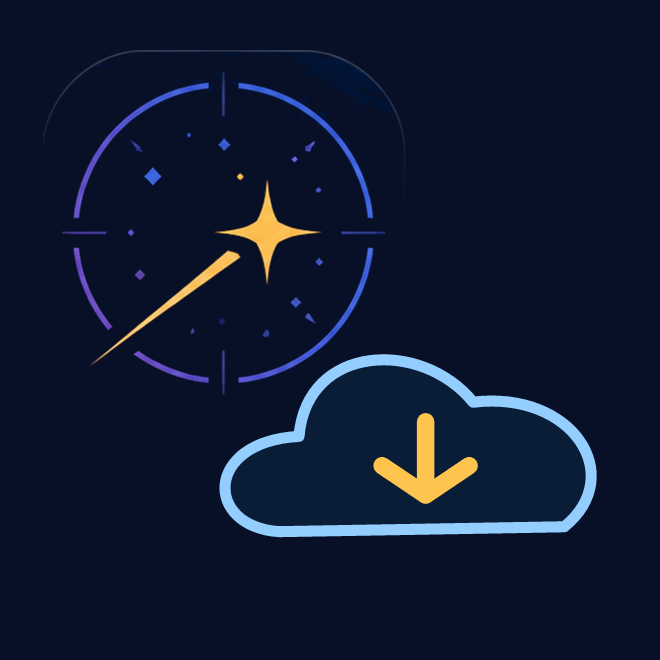
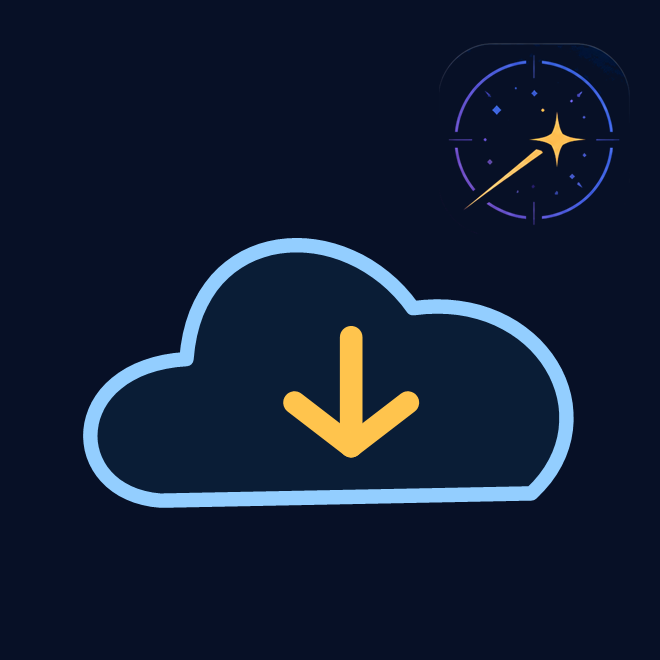
Polish Znichka UI and Drive guide

diff --git a/source/menu_options.c b/source/menu_options.c
@@ -55,6 +55,21 @@ static void google_help_line(int y, const char *line, int heading)
     SetFontColor((heading ? APP_FONT_TITLE_COLOR : APP_FONT_COLOR) | 0xFF, 0);
     DrawString(155, y, line);
 }
+static char google_button_symbol(int texture_index)
+{
+    if (texture_index == footer_ico_cross_png_index)
+        return orbisPadGetConf()->crossButtonOK ? CHAR_BTN_X : CHAR_BTN_O;
+    if (texture_index == footer_ico_circle_png_index)
+        return orbisPadGetConf()->crossButtonOK ? CHAR_BTN_O : CHAR_BTN_X;
+    if (texture_index == footer_ico_square_png_index) return CHAR_BTN_S;
+    return CHAR_BTN_T;
+}
+static void google_help_action(int y, const char *lead, int texture_index, const char *action)
+{
+    char line[160];
+    snprintf(line, sizeof(line), "%s %c %s", lead, google_button_symbol(texture_index), action);
+    google_help_line(y, line, 0);
+}
 static void google_draw_help(void)
 {
     DrawHeader(cat_opt_png_index, 0, "Google Drive: How to use", NULL,
@@ -65,25 +80,26 @@ static void google_draw_help(void)
         google_help_line(285, "1. Settings > Connect Google Drive. Follow the URL and code.", 0);
         google_help_line(360, "2. HDD Saves > select a save > Back up to Google Drive.", 0);
         google_help_line(435, "3. Open Google Drive on the main screen. Choose a backup.", 0);
-        google_help_line(510, "4. Confirm to download. Checksum, ZIP and SFO are validated.", 0);
-        google_help_line(585, "5. Save exists? Triangle: Replace. Do not delete it first.", 0);
-        google_help_line(690, "6. No save yet? Cross: restore into the empty slot.", 0);
+        google_help_action(510, "4.", footer_ico_cross_png_index, "Download; checksum, ZIP and SFO are checked.");
+        google_help_action(585, "5. Save exists?", footer_ico_triangle_png_index, "Replace. Do not delete it first.");
+        google_help_action(690, "6. Empty slot?", footer_ico_cross_png_index, "Restore the downloaded save.");
         google_help_line(765, "Backups stay in Drive; failed restores retain downloaded ZIPs.", 0);
     } else {
-        google_help_line(205, "ACCOUNTS AND REPLACE", 1);
-        google_help_line(275, "Both PS4 profiles need the same Apollo offline Account ID.", 0);
-        google_help_line(340, "Local user IDs may differ. Use this app: User Tools > Activate PS4 Accounts.", 0);
-        google_help_line(405, "No separate Apollo download or PSN sign-in is needed.", 0);
-        google_help_line(490, "Replace was tested successfully; restored progress loaded.", 0);
-        google_help_line(555, "Keep the console awake until the operation finishes.", 0);
-        google_help_line(620, "Keep a separate backup; Replace removes the target after rollback upload.", 0);
-        google_help_line(685, "Power loss can leave a missing or partial save; recovery is best effort.", 0);
-        google_help_line(770, "Account ID lookup failed? Activate offline, reboot, retry.", 0);
-        google_help_line(835, "Log: /data/ps4-save-sync/google_restore.log", 0);
+        google_help_line(205, "REPLACE AND RECOVERY", 1);
+        google_help_action(285, "", footer_ico_triangle_png_index, "Replace an existing save after downloading.");
+        google_help_line(360, "Keep a separate backup of the target save first.", 0);
+        google_help_line(435, "Replace uploads a verified rollback before removing the target.", 0);
+        google_help_line(510, "Keep the console awake until the operation finishes.", 0);
+        google_help_line(585, "Power loss can leave a missing or partial save.", 0);
+        google_help_line(660, "Recovery is best effort; keep the downloaded ZIP.", 0);
+        google_help_action(735, "", footer_ico_circle_png_index, "Discard a ready download or return to the menu.");
+        google_help_line(810, "Log: /data/ps4-save-sync/google_restore.log", 0);
     }
     SetFontSize(37, 43);
     SetFontColor(APP_FONT_COLOR | 0xFF, 0);
-    DrawString(155, 975, "L1 / R1: page       Square / Back: close");
+    DrawFormatString(155, 975, "L1 / R1: page       %c / %c close",
+        google_button_symbol(footer_ico_square_png_index),
+        google_button_symbol(footer_ico_circle_png_index));
 }
 void google_drive_ui_help(void)
 {
@@ -206,20 +222,20 @@ int google_drive_ui_frame(void)
         DrawFormatString(180,690,"Recovery pending: %s / %s, user %08x",
             pending_backup.title,pending_backup.directory,apollo_config.user_id);
         DrawString(180,750,"Target may be partial. Both ZIPs and journal are retained.");
-        DrawString(180,935,"R1: retry recovery    Back: close");
+        DrawFormatString(180,935,"R1: retry recovery    %c close",
+            google_button_symbol(footer_ico_circle_png_index));
     } else if (!status.busy && pending<0) {
         DrawString(180,750,"Replacement journal cannot be verified. Save operations blocked.");
     }
     if (!status.busy && pending==0 && status.restore_ready) {
         const google_backup *b=&status.restore_backup;
-        const int cross_ok=orbisPadGetConf()->crossButtonOK;
-        const char *restore_button=cross_ok?"Cross":"Circle";
-        const char *discard_button=cross_ok?"Circle":"Cross";
         DrawFormatString(180,670,"Game: %.*s",(int)google_text_prefix(b->game,65),b->game);
         DrawFormatString(180,720,"Title: %s  Save: %s",b->title,b->directory);
         DrawFormatString(180,770,"Backup UTC: %s  Current user: %08x",b->utc,apollo_config.user_id);
-        DrawFormatString(180,875,"%s: empty slot    Triangle: replace    %s: discard",
-            restore_button,discard_button);
+        DrawFormatString(180,875,"%c empty slot    %c replace    %c discard",
+            google_button_symbol(footer_ico_cross_png_index),
+            google_button_symbol(footer_ico_triangle_png_index),
+            google_button_symbol(footer_ico_circle_png_index));
     }
     if (!status.busy && status.browsing) {
         SetFontSize(34, 40);
@@ -236,7 +252,8 @@ int google_drive_ui_frame(void)
             DrawFormatString(180,820,"Save: %s",b->directory);
             DrawFormatString(180,865,"Backup: %s  Size: %llu bytes",b->utc,(unsigned long long)b->size);
         }
-        DrawString(180,920,"Up/Down: select    Confirm: download    R1: next page");
+        DrawFormatString(180,920,"Up/Down: select    %c download    R1: next page",
+            google_button_symbol(footer_ico_cross_png_index));
     }
     if (status.verification_url[0]) {
         DrawString(180, 480, "Verification URL:");
@@ -244,15 +261,15 @@ int google_drive_ui_frame(void)
         DrawString(180, 710, "User code (case sensitive):");
         google_text(status.user_code, 760, 860);
     }
-    const char *cancel_button = orbisPadGetConf()->crossButtonOK ? "Circle" : "Cross";
     if (status.mount_blocked)
         DrawString(180, 995, "Mount state uncertain. Stop save operations.");
     else if (status.busy && !status.cancellable)
         DrawString(180, 995, "Finishing operation...");
     else
-        DrawFormatString(180, 995, "%s: %s", cancel_button,
+        DrawFormatString(180, 995, "%c %s", google_button_symbol(footer_ico_circle_png_index),
             status.busy ? "cancel operation" : "return");
-    if (!status.busy) DrawString(1120, 995, "Square: How to use");
+    if (!status.busy) DrawFormatString(1120, 995, "%c How to use",
+        google_button_symbol(footer_ico_square_png_index));
     return 1;
 }
 

diff --git a/source/draw.c b/source/draw.c
@@ -373,8 +373,21 @@ static void drawMainCards(uint8_t alpha)
 	SetFontAlign(FONT_ALIGN_SCREEN_CENTER);
 	SetFontColor(APP_FONT_COLOR | alpha, 0);
 	SetFontSize(36, 40);
-	DrawString(0, 921, "Left / Right  Navigate       Confirm  Open       Back  Exit");
+	DrawString(0, 921, "Left / Right  Navigate       \x10 Open       \x13 Exit");
 	SetFontAlign(FONT_ALIGN_LEFT);
+}
+
+static void drawStartupIdentity(u8 alpha)
+{
+	DrawTexture(&menu_textures[znichka_icon_png_index], 144, 134, 0,
+		78, 78, 0xFFFFFF00 | alpha);
+	SetFontAlign(FONT_ALIGN_LEFT);
+	SetFontColor(APP_FONT_TITLE_COLOR | alpha, 0);
+	SetFontSize(72, 76);
+	DrawString(248, 132, "PS4 Cloud Save");
+	SetFontColor(0xE9EEF900 | alpha, 0);
+	SetFontSize(30, 36);
+	DrawString(252, 214, "by Znichka");
 }
 
 void drawSplashLogo(int mode)
@@ -404,7 +417,7 @@ void drawSplashLogo(int mode)
 			logo_a_t = 0xFF;
 		u8 logo_a = (u8)logo_a_t;
 
-		DrawTextureCentered(&menu_textures[znichka_logo_png_index], SCREEN_WIDTH/2, SCREEN_HEIGHT /2, 0, 1060, 328, 0xFFFFFF00 | logo_a);
+		drawStartupIdentity(logo_a);
 
 		//flush and flip
 		SDL_RenderPresent(renderer);
@@ -425,7 +438,7 @@ void drawEndLogo(void)
 		DrawBackground2D(0x070A12FF);
 
 		//App description
-		DrawTextureCentered(&menu_textures[znichka_logo_png_index], SCREEN_WIDTH/2, SCREEN_HEIGHT /2, 0, 1060, 328, 0xFFFFFF00 | 0xFF);
+		drawStartupIdentity(0xFF);
 
 		rect.y = 0;
 		SDL_SetRenderDrawColor(renderer, 0, 0, 0, 0xFF);

diff --git a/source/main.c b/source/main.c
@@ -348,6 +348,9 @@ static int LoadSounds(void* data)
 		}
 
 		ambient_audio_stereo(music, loop_samples, &cursor, pSampleData, AUDIO_SAMPLES);
+		/* Keep the same loop and toggle, with a slightly quieter output level. */
+		for (size_t i = 0; i < AUDIO_SAMPLES * 2; i++)
+			pSampleData[i] = (int16_t)((int32_t)pSampleData[i] * 85 / 100);
 
 		/* Output audio */
 		sceAudioOutOutput(audio, NULL);	// NULL: wait for completion

diff --git a/docs/google-drive.md b/docs/google-drive.md
@@ -12,37 +12,46 @@ credits and licenses remain in place.
 
 ## How to use in the current UI
 
-Open **Google Drive** from the main screen and press Square for the two-page
+Open **Google Drive** from the main screen and press **□** for the two-page
 **How to use** guide. It is also listed in Settings.
 
 1. In Settings, choose **Connect Google Drive** and complete the displayed
    verification URL and user code.
 2. In **HDD Saves**, select a save and choose **Back up to Google Drive**.
-3. Open **Google Drive**, select a backup, and Confirm to download it. The app
+3. Open **Google Drive**, select a backup, and press **×** to download it. The app
    checks its checksum, ZIP contents, and SFO before making it ready.
-4. Confirm again to restore into an **empty** save slot. An existing target is
+4. Press **×** again to restore into an **empty** save slot. An existing target is
    refused. The backup remains in Drive; failed restores retain the ZIP.
-5. Triangle on a ready download offers **Replace** for an occupied slot. Before
-   using it, keep a separate copy of the current save. Replace uploads and
-   verifies a rollback backup, then removes the target. It is not atomic and
-   recovery is best effort. Trying an empty disposable slot and verifying it on
-   the PS4 is the safer path.
+5. Press **△ Replace** for an occupied slot. You do not need to delete the
+   existing save first. Keep a separate copy of it before replacing. Replace
+   uploads and verifies a rollback backup, then removes the target. It is
+   best-effort and not atomic; power loss can leave a missing or partial save.
+6. Press **○** to discard a ready download or return to the menu.
 
-For cross-console use, the Andrey profiles on both consoles need the **same
-Apollo offline Account ID**. Use **User Tools > Activate PS4 Accounts** for an
-unactivated profile, then reboot. This does not require PSN sign-in; Chiaki can
-still use the activated account. If account-ID lookup fails, check
-`/data/ps4-save-sync/google_restore.log`, activate the local account if needed,
+## Cross-console account setup
+
+Both PS4 profiles need the **same offline Account ID** for cross-console use;
+their local user IDs may differ. If a profile needs activation, use this app's
+**User Tools > Activate PS4 Accounts**, which is included in **PS4 Cloud Save by
+Znichka**. Reboot when prompted. No separate Apollo download or PSN sign-in is
+needed. Chiaki can still use the activated account. If account-ID lookup fails,
+check `/data/ps4-save-sync/google_restore.log`, activate the local account if needed,
 reboot, and retry. Do not use a backup's account ID or zero as a substitute.
 
-Console testing reported by the owner confirms Google connection, Drive
-`files.list`, refresh after a full app restart, local disconnect, and reconnect.
-The owner also confirmed two separate ZIP uploads of the same save, verified
-the archive contents, and verified the original game save. Those are reported
-console upload results. The owner reports browsing and downloaded-backup
-validation on PS4 as well. The owner reports a successful empty-slot restore
-on a second PS4 and that the game loaded it. Replacement and recovery are not
-yet verified on PS4.
+## Console test status
+
+The owner confirmed Google connection, Drive `files.list`, refresh after a full
+app restart, local disconnect and reconnect, two separate ZIP uploads of the
+same save, archive contents, and the original game save. The owner also
+confirmed browsing and downloaded-backup validation on PS4. After matching the
+offline Account IDs on both PS4 profiles, the owner confirmed a successful
+cross-console empty-slot restore and a successful **△ Replace**. The restored
+game progress loaded.
+
+Recovery retry, power-loss interruption, and controlled failure-injection tests
+remain unverified on PS4. The broader disposable-save and stress test checklists
+below are still pending; they extend the confirmed normal restore and Replace
+flows.
 
 ## Build registration
 
@@ -76,9 +85,8 @@ confidential; these values will necessarily be present in the installed binary.
 Settings contains **Google Drive Backups**, **Connect Google Drive**, **Connection Status**, and
 **Disconnect Google Drive**. Connect displays Google's returned verification URL
 and case-sensitive code while a worker polls at the returned interval. A
-`slow_down` response adds five seconds to subsequent intervals. The console's
-Cancel button (Circle or Cross, shown on screen) cancels polling or network work;
-after the result, Cancel returns to Settings. Local
+`slow_down` response adds five seconds to subsequent intervals. The **○** button
+cancels polling or network work; after the result, Cancel returns to Settings. Local
 credential updates finish atomically before leaving the result screen. Other
 settings/save actions are suspended while this screen is open, preventing
 overlapping app save-data mounts; rendering and controller input continue.
@@ -289,7 +297,7 @@ unconnected account may be inaccessible.
 
 The browser requests ten files per page, ordered by Drive creation time newest
 first. It shows game/title ID, and the selected save directory, backup UTC and
-byte size. Up/Down selects a row, Confirm downloads it, R1 fetches the next page,
+byte size. Up/Down selects a row, **×** downloads it, R1 fetches the next page,
 and Cancel returns. Empty pages can still have a next page. Reopen the entry to
 restart from page one. Malformed backups are excluded and counted on that page;
 invalid page tokens and a token repeating the current page fail closed. The
@@ -338,7 +346,10 @@ does not mount, modify, overwrite or extract a game save.
 MD5/CRC consistency checks detect transfer/archive corruption; they do not
 provide authenticity against an account owner editing both content and metadata.
 
-## Verify browsing and download on PS4 (pending)
+## Broader browsing and download checks on PS4 (pending)
+
+The owner confirmed normal browsing and downloaded-backup validation on PS4.
+The following additional cases remain pending.
 
 1. Build/install this milestone with OpenOrbis and the existing verified TLS and
    libzip dependencies. Host results do not assert PS4 ABI or installation success.
@@ -361,8 +372,8 @@ provide authenticity against an account owner editing both content and metadata.
 
 ## Restore into an empty local slot
 
-After **validation passed**, the panel shows **Confirm: Restore (empty slot
-only)**. Confirmation identifies the game, title ID, save directory, backup UTC
+After **validation passed**, the panel shows **× empty slot**. Confirmation
+identifies the game, title ID, save directory, backup UTC
 and current PS4 user ID. Declining confirmation or cancelling the ready panel
 discards only the private ZIP. It never deletes a game save. Confirmation does
 not authorize an overwrite.
@@ -396,8 +407,8 @@ successful restore.
 
 The local PS4 user must have a nonzero account ID so the imported SFO and save
 database can be assigned to that user. A PlayStation Network link or session is
-not required. For an unactivated local user, use Apollo's **User Tools > Activate
-PS4 Accounts**, reboot as Apollo requests, then retry restore. This is a user
+not required. For an unactivated local user, use this app's **User Tools > Activate
+PS4 Accounts**, reboot when prompted, then retry restore. This is a user
 action; restore never invents or substitutes an account ID. The import refreshes
 the ID through `sceUserServiceGetNpAccountId` and stops before mounting or
 copying if that SDK call fails or returns zero. The downloaded ZIP and any
@@ -427,9 +438,9 @@ termination also requires manual inspection and does not imply success.
 
 ## Replace an existing save (best effort)
 
-Triangle on a ready Google download opens a separate replacement confirmation.
+**△** on a ready Google download opens a separate replacement confirmation.
 The confirmation names the title, save directory and PS4 user and warns that
-power loss can leave the save missing or partial. Cross retains the existing
+power loss can leave the save missing or partial. **×** retains the existing
 empty-slot operation. Replacement is allowed only for a confirmed present
 target and a ZIP whose complete archive, checksum and embedded SFO match that
 title and directory.
@@ -495,13 +506,16 @@ If the private SDK mount or unmount call reports failure, its return and POSIX
 stops before rollback because the firmware mount state cannot be confirmed.
 There is no automatic unmount retry.
 
-### Disposable-save replacement test on PS4
+### Broader disposable-save replacement test on PS4 (pending)
+
+The normal **△ Replace** flow succeeded on PS4. This additional checklist,
+including recovery retry and controlled failure injection, remains pending.
 
 1. Close the game. Use a disposable save with known old progress on the target
    console and newer progress in a Drive ZIP from the same title ID and exact
    save directory. Make and verify an independent USB copy of the old save first.
-2. Download the newer ZIP. Confirm Cross still refuses the occupied slot. Press
-   Triangle, check the title, directory and user in the replacement warning, and
+2. Download the newer ZIP. Confirm **×** still refuses the occupied slot. Press
+   **△**, check the title, directory and user in the replacement warning, and
    decline once; verify the old progress still loads. Repeat and accept.
 3. With development logging or a breakpoint at the delete checkpoint, verify
    that a new rollback file is already in the marked Drive folder with the
@@ -523,7 +537,10 @@ There is no automatic unmount retry.
    new data had fully copied; inspect the save and the retained files before
    any further operation. Never use this test on the only copy of valued data.
 
-## Safe disposable-save restore test on PS4 (pending)
+## Broader disposable-save restore and stress tests on PS4 (pending)
+
+The normal cross-console empty-slot restore succeeded on PS4. These additional
+disposable-save, failure-injection, and stress checks remain pending.
 
 1. Build/install with OpenOrbis and the existing dependencies. Keep the game
    closed throughout download/restore. Use one current PS4 user and a genuinely
@@ -561,7 +578,7 @@ There is no automatic unmount retry.
    ownership patching and unmount. Check UI responsiveness, rejection of overlapping
    operations and continued token isolation/TLS verification. Repeat export/upload
    regressions. Repeat the empty disposable-slot procedure on each target console
-   before relying on cross-console use.
+   as part of broader validation.
 
 ## Credential exclusion
 

diff --git a/README.md b/README.md
@@ -14,12 +14,12 @@ The original developer does not endorse this fork.
    displayed URL and code. In **HDD Saves**, select the save and choose
    **Back up to Google Drive**.
 2. On the destination PS4, connect to the same Google Drive account. Open
-   **Google Drive**, choose the backup, and press Cross to download it. The app
+   **Google Drive**, choose the backup, and press **×** to download it. The app
    validates the download, ZIP, and save metadata before offering restore.
 3. Choose the restore action for the destination:
-   - **Save already exists:** press **Triangle: Replace**. You do not need to
+   - **Save already exists:** press **△ Replace**. You do not need to
      delete the existing save.
-   - **Empty save slot:** press **Cross: empty-slot restore**.
+   - **Empty save slot:** press **× empty-slot restore**.
 
 Both PS4 profiles need the **same offline Account ID**. Their local user IDs
 can differ. Set the Account ID using **User Tools > Activate PS4 Accounts** in
